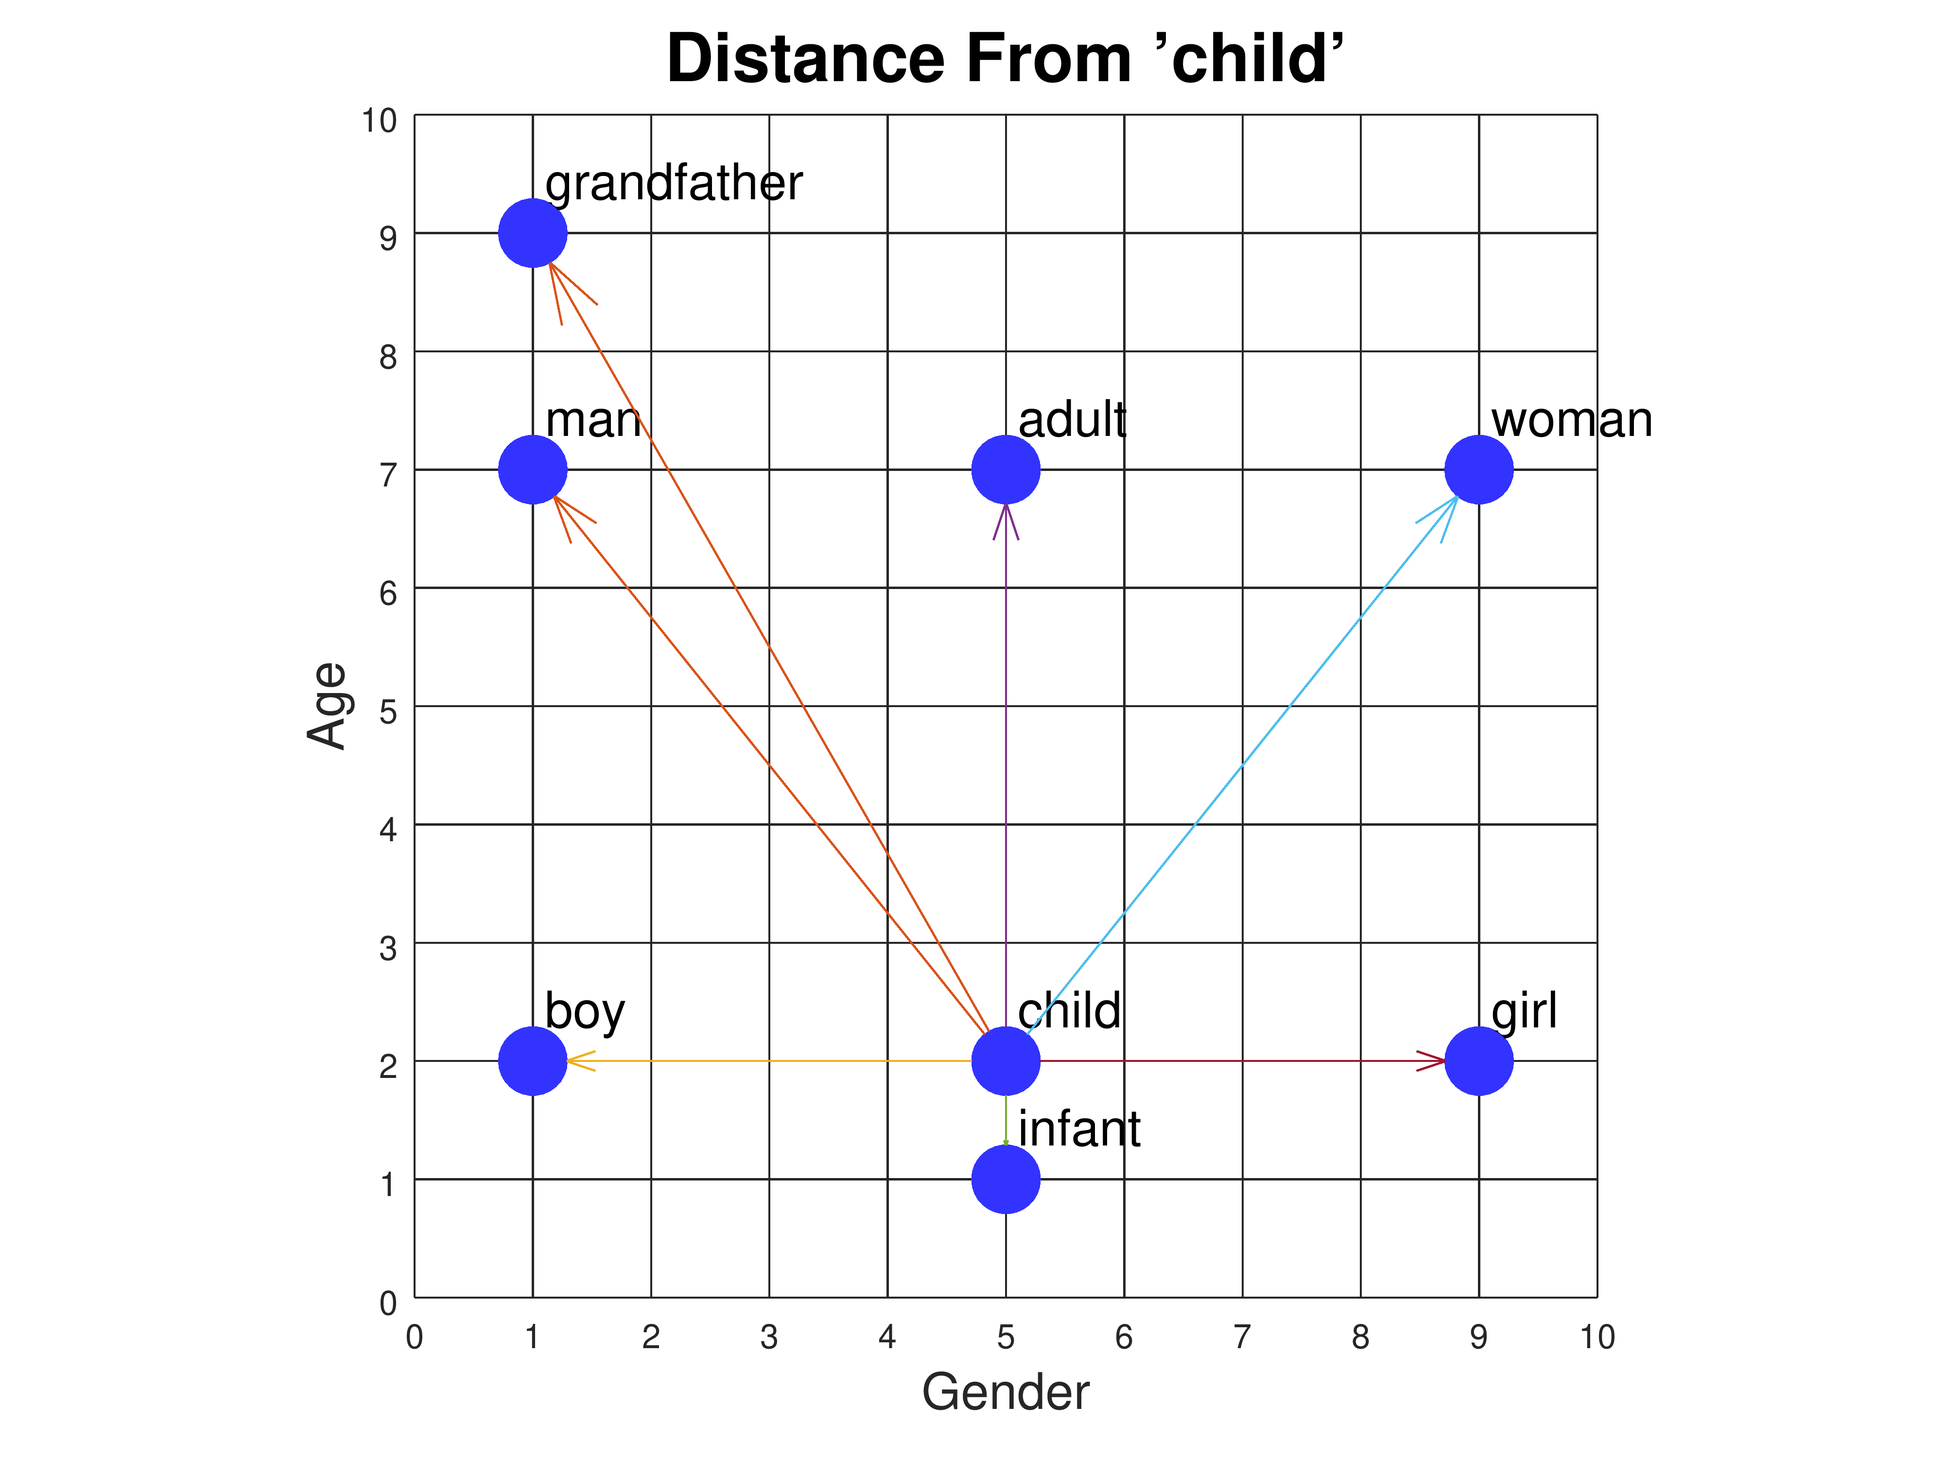
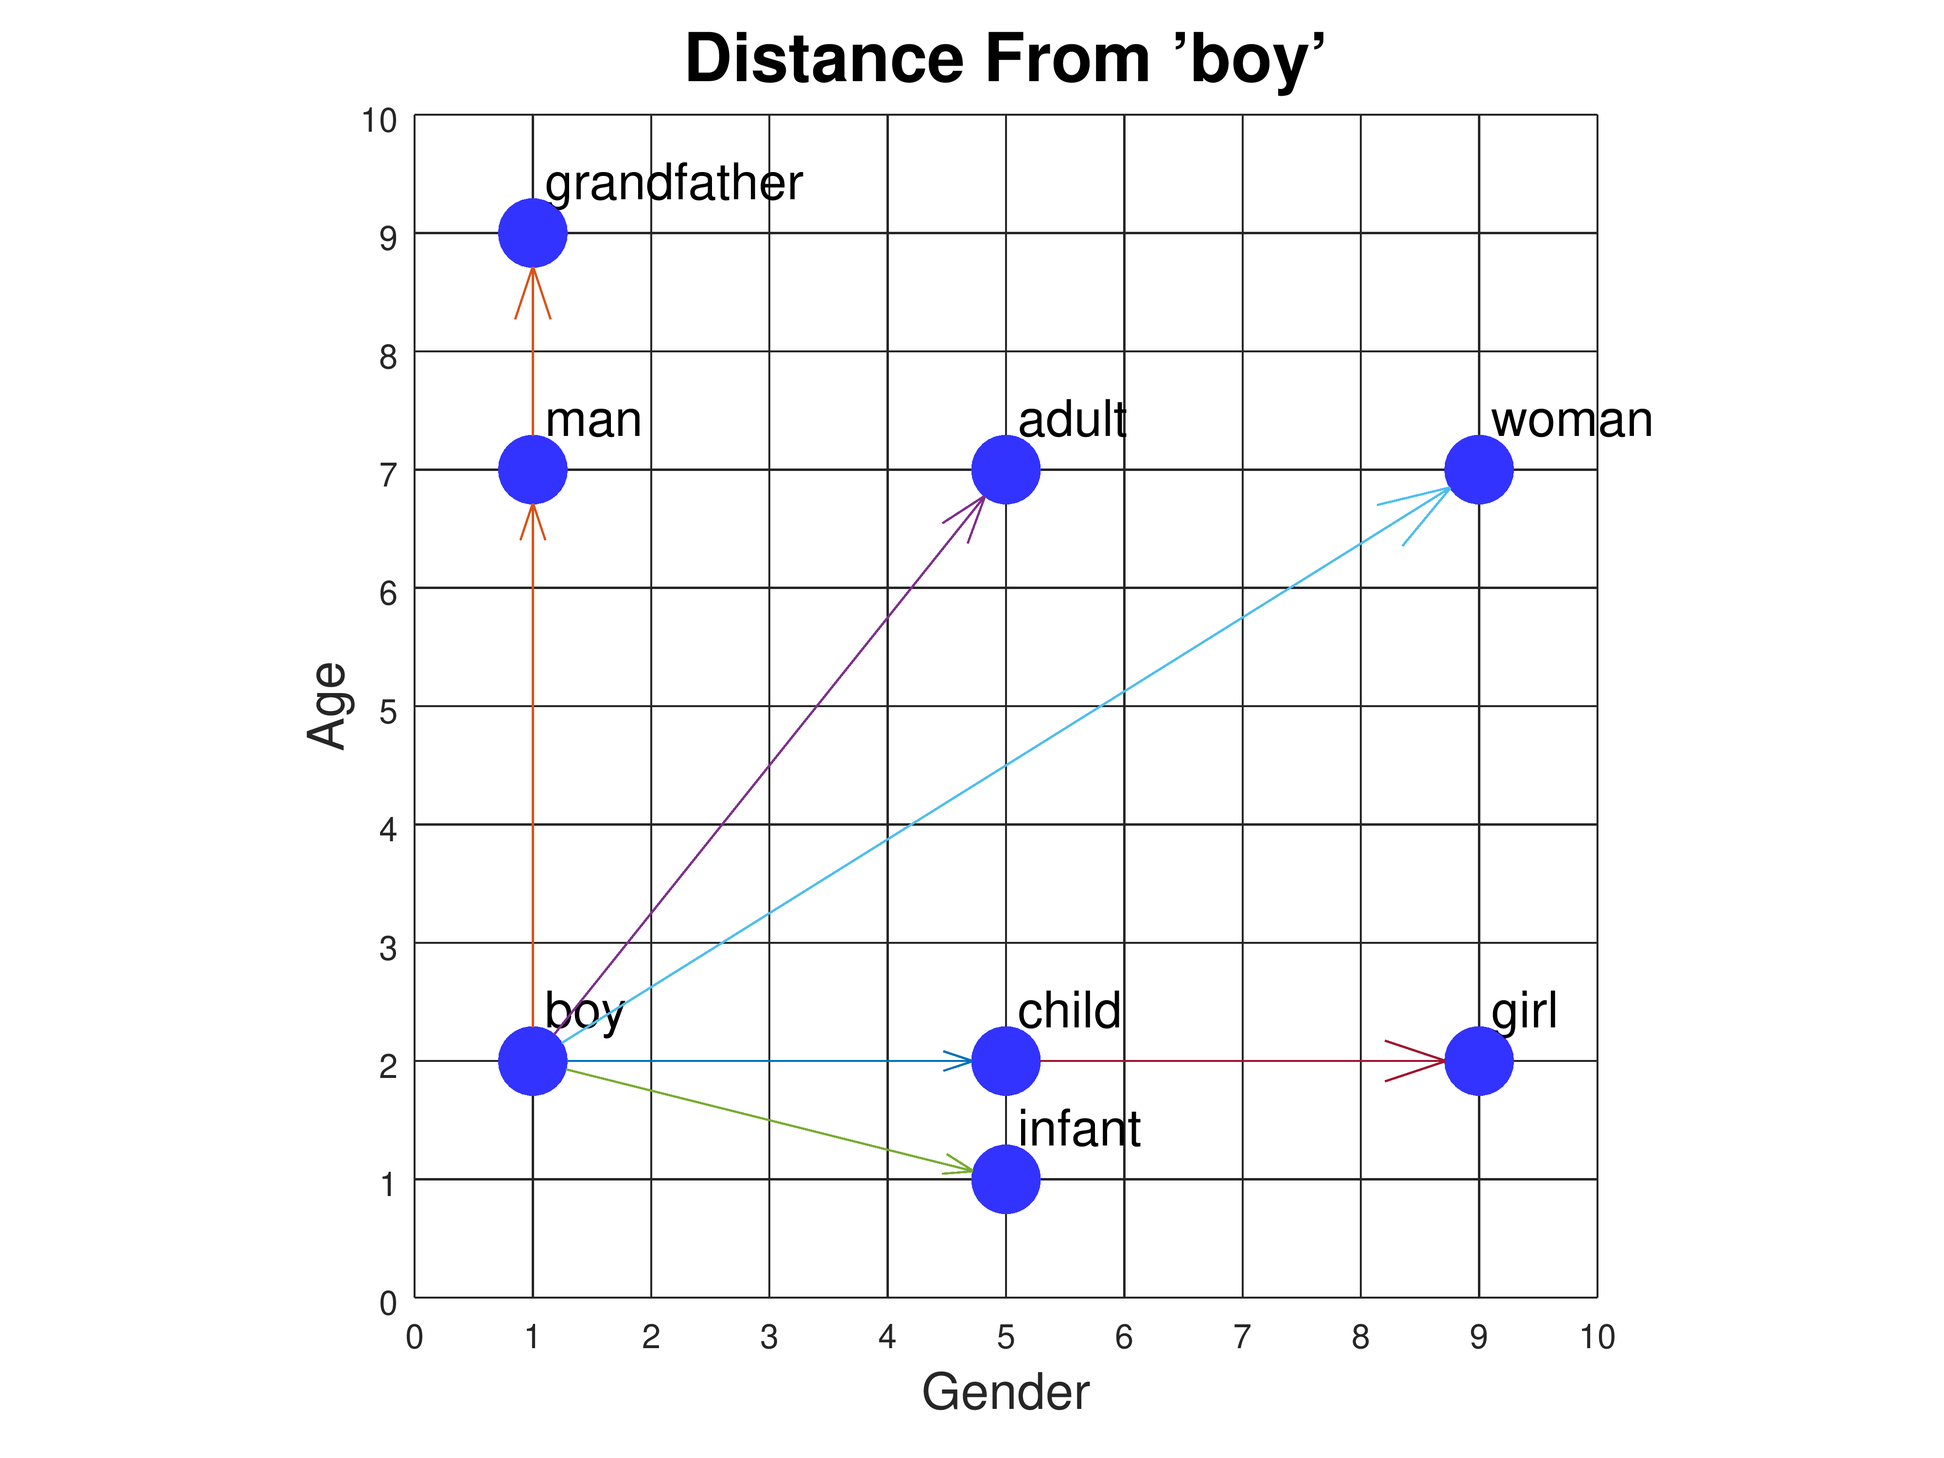
Update

diff --git a/tutorial.html b/tutorial.html
@@ -190,52 +190,55 @@ Google searches, and GPT3 from OpenAI.<p/>
 
 Earlier we looked at ways to measure distance between two words.
 Counting the number of features where they differ is too crude a
-measure, because it doesn't distinguish between small value
-differences and large ones.  The alternative we settled on was
-Euclidean distance.  We will now explain the formula for calculating
-this.  But first we need to say a little more about vectors.<p/>
+measure because it doesn't distinguish between small value differences
+and large ones.  The alternative we settled on was Euclidean distance.
+We will now explain the formula for calculating this.  But first we
+need to say a little more about vectors.<p/>
 
 We've been drawing words as points in a semantic space, and we've also
 referred to these points as <i>vectors</i>.  In mathematics, a vector
-is drawn as an arrow, and consists of a length and a direction.  Words
-can be drawn as arrows that begin at the origin and end at the point.
-So the word "child" can be drawn as an arrow from the origin [0, 0] to
-the point [5, 2].  Here are all the words in our 2D semantic space
-drawn as vectors:<p/>
+is drawn as an arrow, and it consists of a length and a direction.
+Words can be drawn as arrows that begin at the origin and end at the
+point.  So the word "child" can be drawn as an arrow from the origin
+[0, 0] to the point [5, 2].  Here are all the words in our 2D semantic
+space drawn as vectors:<p/>
 
 <img src="figures/fig5.png" width=600><p/>
 
-We can compare two words by drawing a vector from one to the other,
-and measuring its length.  The vector from "child" to "man" can be
+We can compare two words by drawing a vector from one to the other and
+measuring its length.  The vector from "child" to "man" can be
 computed by starting with "man" [1,7] and subtracting "child" [5,2],
 giving the vector [-4, 5].  The length of a vector [x, y] is given by
 the formula sqrt(x<sup>2</sup> + y<sup>2</sup>), where sqrt is the
 square root function.  This is the Euclidean distance between the
-words.  Here are all the vectors from "child" to the other words:<p/>
+words.  Here are all the vectors from "boy" to the other words:<p/>
 
 <img src="figures/fig6.png" width=600><p/>
 
-And here are the Euclidean distances from "child":
+And here are the Euclidean distances from "boy":
 
 <table class="mytable">
   <thead>
-    <tr><td colspan=2>Distance from "child"</td></tr>
+    <tr><td colspan=2>Distance from "boy"</td></tr>
   </thead>
   <tbody>
-    <tr><td>man</td>     <td>6.4031</td></tr>
-    <tr><td>woman</td>   <td>6.4031</td></tr>
-    <tr><td>boy</td>     <td>4</td></tr>
-    <tr><td>girl</td>    <td>4</td></tr>
-    <tr><td>adult</td>   <td>5</td></tr>
-    <tr><td>child</td>   <td>0</td></tr>
-    <tr><td>infant</td>  <td>1</td></tr>
-    <tr><td>grandfather</td>     <td>8.0623</td></tr>
+    <tr><td>man</td>     <td>5</td></tr>
+    <tr><td>woman</td>   <td>9.4340</td></tr>
+    <tr><td>boy</td>     <td>0</td></tr>
+    <tr><td>girl</td>    <td>8</td></tr>
+    <tr><td>adult</td>   <td>6.4031</td></tr>
+    <tr><td>child</td>   <td>4</td></tr>
+    <tr><td>infant</td>  <td>4.1231</td></tr>
+    <tr><td>grandfather</td>     <td>7</td></tr>
   </tbody>
 </table><p/>
 
+You can see that the closest word to "boy" is "child", but "infant" is
+only a little bit further away.<p/>
+
 The same Euclidean distance formula works in higher dimensions too.
-The length of a vector [x, y, z] is sqrt(x<sup>2</sup> + y<sup>2</sup>
-+ z<sup>2</sup>).<p/>
+The length of a 3D vector [x, y, z] is sqrt(x<sup>2</sup> +
+y<sup>2</sup> + z<sup>2</sup>).<p/>
 
 Euclidean distance is a perfectly reasonable distance measure, but
 it's not the preferred distance measure for word embeddings.  Instead
@@ -247,8 +250,8 @@ more similar.
 
 Given two vectors [x<sub>1</sub>, y<sub>1</sub>] and [x<sub>2</sub>,
 y<sub>2</sub>], the Euclidean distance betwen them is
-sqrt((x<sub>2</sub>-x<sub>1</sub>)<sup>2</sup> +
-(y<sub>2</sub>-y<sub>1</sub>)<sup>2</sup>).  The dot product is
+sqrt((x<sub>1</sub>-x<sub>2</sub>)<sup>2</sup> +
+(y<sub>1</sub>-y<sub>2</sub>)<sup>2</sup>).  The dot product is
 simpler: it's x<sub>1</sub>&middot;x<sub>2</sub> +
 y<sub>1</sub>&middot;y<sub>2</sub>.
 
@@ -259,36 +262,43 @@ Consider the angles between the original vectors:<p/>
 
 <img src="figures/fig5.png" width=600><p/>
 
-In the above diagram, the angle between "infant" (green vector) and
-"girl" (orange vector) is almost zero, while the angle between
-"infant" and "child" is larger.  But clearly "infant" is closer to
-"child" than to "girl".  The problem is that all our vectors originate
-at the origin.  To correct the problem and make angle a useful measure
-of similarity, we need the vectors to originate at the center of all
-the points.  So let's move the points so that their center is at the
-origin.  We can do this by taking the mean (average) of all the points
-and subtracting that value from every point.  This means that for
-every feature, some words will have negative values while others have
-positive values, so that their average is zero. Shifting the
-coordinates this way has no effect on the Euclidean distance measure
-because all points are shifted by an equal amount.  But it
-dramatically affects the dot product.  The result looks like this:<p/>
+In the above diagram, the angle between "boy" (yellow vector) and
+"adult" (purple vector) is small, while the angle between "boy" and
+"child" (blue vector) is larger.  But clearly "boy" is closer to
+"child" than to "adult", since "boy" differs only modestly from
+"child" in the gender coordinate, while it differs from "adult" in
+both the gender and age coordinates.  The problem is that all our
+vectors originate at the origin.  To correct the problem and make
+angle a useful measure of similarity, we need the vectors to originate
+at the center of all the points.  So let's move the points so that
+their center is at the origin.  We can do this by taking the mean
+(average) of all the points and subtracting that value from every
+point.  This means that for every feature, some words will have
+negative feature values while others will have positive feature
+values, so that their average is zero. Shifting the coordinates this
+way has no effect on the Euclidean distance measure because all points
+are shifted by the same amount.  But it dramatically affects the dot
+product.  The result looks like this:<p/>
 
 <img src="figures/fig7.png" width=600><p/>
 
-Now the angle between the "child" and "infant" vectors is nearly zero,
-as it should be.  But there is still an issue.  The dot product of two
-vectors is not exactly the cosine of the angle &theta; between them;
-it's <i>proportional</i> to the cosine.  Given two vectors u and v,
-the exact value of dot(u,v) is
-cos(&theta)&middot;length(u)&middot;length(v), where length(u) is the
-length of the vector u, i.e., its Euclidean distance from the origin.
-If we want the dot product to exactly equal the cosine, we need
-to <i>normalize</i> the vectors so they have length 1.  We do this by
-dividing the coordinates of each vector by the length of the vector,
-i.e., given a vector [x, y] with length r = sqrt(x<sup>2</sup> +
-y<sup>2</sup>), we can construct a <i>unit vector</i> pointing in the
-same direct but with length 1 as [x/r, y/r].<p/>
+Now the angle between the "boy" and "child" vectors is much smaller
+than the angle between "boy" and "adult", as it should be because
+"boy" and "child" only differ by 4 in their gender coordinates,
+whereas "boy" and "adult" differ both by 4 in their gender coordinates
+and by 5 in their age coordinates.  But there is still an issue.  The
+dot product of two vectors is not exactly the cosine of the angle
+&theta; between them; it's <i>proportional</i> to the cosine.  Given
+two vectors u and v, the exact value of u&middot;v is
+cos(&theta;)&middot;||u||&middot;||v||, where ||u|| is the length of
+the vector u, i.e., its Euclidean distance from the origin.  If we
+want the dot product to exactly equal the cosine, we need
+to <i>normalize</i> the vectors so that they have length 1.  We do
+this by dividing the coordinates of each vector by the length of the
+vector, i.e., given a vector u&nbsp=&nbsp;[x, y] with length ||u|| =
+sqrt(x<sup>2</sup> + y<sup>2</sup>), we can construct a <i>unit
+vector</i> pointing in the same direct but with a length of 1 as
+u/||u|| or [x/||u||, y/||u||].<p/>
 
 Here is what the points look like when we convert them to unit vectors,
 so they all lie on a circle of radius 1:<p/>
@@ -319,7 +329,101 @@ product is exactly what a neuron in a neural net computes: it takes
 the dot product of its weight vector with its input vector.<p>
 
 <h5> How Word Embeddings Are Created </h5>
-By magic.
+
+There are a variety of algorithms for constructing word embeddings.
+Here we describe one of the first ones, called Skip-gram with Negative
+Sampling (SGNS).<p/>
+
+<b>Step 1</b>: Assemble a text corpus.  We might choose Wikipedia
+articles, or a collection of news stories, or the complete works of
+Shakespeare.  The corpus determines the vocabulary we have to work
+with and the co-occurrence statistics of words, since different
+writing styles will use words differently.<p/>
+
+<b>Step 2</b>: Choose a vocabulary size M.  A large corpus could
+contain one million distinct words if we include person names and
+place names.  Many of those words will occur infrequently.  To keep
+the embedding task manageable we might decide to keep only the highest
+frequency words, e.g., we might choose the 50,000 words that occur
+most frequently in the corpus.  Filtering out the lowest-frequency
+words also eliminates typos, e.g., "graet" should probably have been
+"great", "grate", or "greet".  At this stage we also need to decide
+how to handle punctuation, contractions, subscripts and superscripts,
+special characters such as Greek letters or trademark symbols, and
+alternative capitalizations.<p/>
+
+<b>Step 3</b>: Choose a context window size C.  If we use a context
+window of size C=2 we will look at five-word chunks.  That is, for
+each word in the corpus we will treat the 2 words to the left of it
+and the 2 words to the right of it as its context.<p/>
+
+<b>Step 4</b>: Assemble a co-occurrence dictionary.  By proceeding one
+word at a time through the corpus and looking C words back and C words
+ahead, we can determine, for every target word, which words occur in
+its context.  For example, with C=2, given the text "Thou shalt not
+make a machine in the likeness of a human mind", the co-occurrence
+dictionary would look like this:<p/>
+
+<table class="my_embedding_dict">
+  <tbody>
+    <tr><td>thou</td> <td>shalt, not</td></tr>
+    <tr><td>shalt</td>      <td>thou, not, make</td></tr>
+    <tr><td>not</td>        <td>thou, shalt, make, a</td></tr>
+    <tr><td>make</td>       <td>shalt, not, a, machine</td></tr>
+    <tr><td>a</td>          <td>not, make, machine, in, image, of, human, mind</td></tr>
+    <tr><td>machine</td>    <td>make, a, in, the</td></tr>
+    <tr><td>in</td>         <td>a, machine, the, image</td></tr>
+    <tr><td>the</td>        <td>machine, in, image, of</td></tr>
+    <tr><td>image</td>      <td>in, the, of, a</td></tr>
+    <tr><td>of</td>         <td>the, image, a, human</td></tr>
+    <tr><td>human</td>      <td>of, a, mind</td></tr>
+    <tr><td>mind</td>       <td>a, human</td></tr>
+  </tbody>
+</table><p/>
+
+Notice that the word "a" occurs twice in the corpus.  Its contexts are
+combined in the dictionary.  In practice the corpus would be much
+larger than this, with every word would appearing multiple times,
+making for a much richer context.<p/>
+
+<b>Step 5</b>: Choose an embedding size N so that each word will be
+represented by a list of N numbers.  A typical value for N is 300,
+although small embeddings might use only 100 numbers per word, while
+large ones could use 700 or more.  Larger values of N can encode more
+information, but the embedding takes longer to compute and more memory
+to store.<p/>
+
+<b>Step 6</b>: Make two tables each containing M rows and N columns.
+Each row represents a word.  For example, if we have a 50,000 word
+vocabulary and are constructing 300-element embeddings, the table
+would be of size 50,000&nbsp;&times;&nbsp;300.  One table, E, is for
+the target words we're trying to embed.  The second table, U, is for
+words when they are used as context words.  Initialize both tables
+with small random numbers.<p/>
+
+<b>Step 7</b>: This is the training process.  Slide a window of size
+2C+1 over the entire training corpus, shifting it by one word each
+time.  For each target word t in the middle slot of the window, look
+up its vector <b>e</b> in the embedding table E.  For each context
+word u occurring in some other slot of the window, look up its
+vector <b>u</b> in the context table U.  Compute the dot
+product <b>e&middot;u</b> and run the result through a non-linear
+squashing function (called the "sigmoid" or "logistic" function) that
+produces an output value between 0 and 1.  If the output is less than
+1, make a tiny adjustment to the vectors <b>e</b> and <b>u</b> using a
+technique called <i>gradient descent learning</i>; this technique is
+also used to train neural networks.  Repeat the process for all the
+context words.  These are the positive examples.  We also need some
+negative examples.  Choose 5 to 10 vocabulary words at random that our
+dictionary indicates <i>never</i> appear in the context of the target
+word.  Apply the same procedure as above, except now we want the value
+of the squashed dot product to be 0 rather than 1.  Make tiny
+adjustments to the embedding and context vectors accordingly.  We
+repeat this process, making a pass through the entire{ corpus, between
+3 and 50 times.<p/>
+
+<b>Step 8</b>: The embedding table E now contains the desired
+embeddings.  The context table U can be discarded.<p/>
 
 <h5> Additional Resources </h5>
 

diff --git a/experiments.html b/experiments.html
@@ -1,10 +1,54 @@
 <!DOCTYPE html>
 <html lang="en">
 <head>
-    <meta charset="UTF-8">
-    <title>Experiments</title>
+  <link rel="stylesheet" href="https://cdnjs.cloudflare.com/ajax/libs/materialize/0.100.2/css/materialize.css">
+  <link rel="stylesheet" href="tutexp-styles.css">
+  <style type="text/css">
+    tr { padding: 0px; }
+  </style>
+  <meta charset="UTF-8">
+    <title>Word Embedding Demo: Experiments</title>
 </head>
-<body>
+
+<body class="center-content" style="margin-right: 50px; margin-left: 50px; max-width: 992px;">
+
+<h2 style="text-align: center;">Word Embedding Demo: Experiments</h2>
+
+<center>
+  Navigation: <a href="../index.html">Return to Demo</a> or <a href="tutorial.html">View Tutorial</a><p/>
+</center><p/>
+
+<h5> Basic Exploration </h5>
+
+The left half of the demo window is the 3D point plot.  The right half
+is the semantic feature vector display.  At the bottom of the window
+there are some expandable panels that can be opened to reveal more
+advanced features.<p/>
+
+<ul>
+  <li> <b>Explore the 3D point plot:</b> Click and drag in the point
+    plot to rotate the view.  Use the scroll wheel to zoom in or out.
+    Hold down the control key and click and drag to pan the view.<p/>
+
+  <li> <b>Find closest words:</b> Put the mouse pointer over a word in
+    the 3D plot.  A window will pop up showing the 10 closest words to
+    this one.<p/>
+
+  <li> <b>Explore the feature vector display:</b> The feature vector
+    display shows the embedding vectors for up to six selected words.
+    Drag the mouse over the colored bars in the display and you can
+    read out the exact value of each bar.  The current column the
+    mouse is over is magnified and shown to the left of the main
+    display.  Column 126 correlates with gender; it is tan/orange for
+    male words and gray/blue for female words.<p/>
+
+</ul>
+
+
+
+<center>
+  Navigation: <a href="../index.html">Return to Demo</a> or <a href="tutorial.html">View Tutorial</a><p/>
+</center><p/>
 
 </body>
 </html>

diff --git a/tutexp-styles.css b/tutexp-styles.css
@@ -20,14 +20,30 @@ h5 { text-align: left; }
 }
 
 tr.myred { color: red; }
-
 tr.mygreen { color: green; }
+.mytable tr td:nth-child(1) { color: initial }
+.mytable td { padding: 0 10px 0 10px; margin: 0; }
+.mytable td:nth-child(1) { text-align: right; }
 
-tr td:nth-child(1) { color: initial }
+.my_embedding_dict {
+  table-layout: fixed;
+  margin-left: 5em;
+  width: auto;
+  border-collapse: collapse;
+  border: 3px solid purple;
+}
 
-td { padding: 0 10px 0 10px; margin: 0; }
+.my_embedding_dict tr {
+    border: 1px solid black;
+    padding: 0;
+}
 
-td :nth-child(1) { text-align: right; }
+.my_embedding_dict td {
+    border: 1px solid black;
+    padding: 5px 7px 0 7px;
+}
+
+.my_embedding_dict td:nth-child(1) { text-align: right; font-weight: bolder; }
 
 img.indented { margin-left: 10em; }
 

diff --git a/figures/fig6.m b/figures/fig6.m
@@ -4,7 +4,7 @@ xc = nan;
 yc = nan;
 
 for i = 1 : length(words)
-  if strcmp(words{i,3}, 'child')
+  if strcmp(words{i,3}, 'boy')
     xc = words{i,1};
     yc = words{i,2};
     break
@@ -23,6 +23,6 @@ end
 
 xlabel('Gender', 'Fontsize', 15)
 ylabel('Age', 'Fontsize', 15)
-title("Distance From 'child'", 'FontSize', 20)
+title("Distance From 'boy'", 'FontSize', 20)
 
 savefigure("fig6.png")
